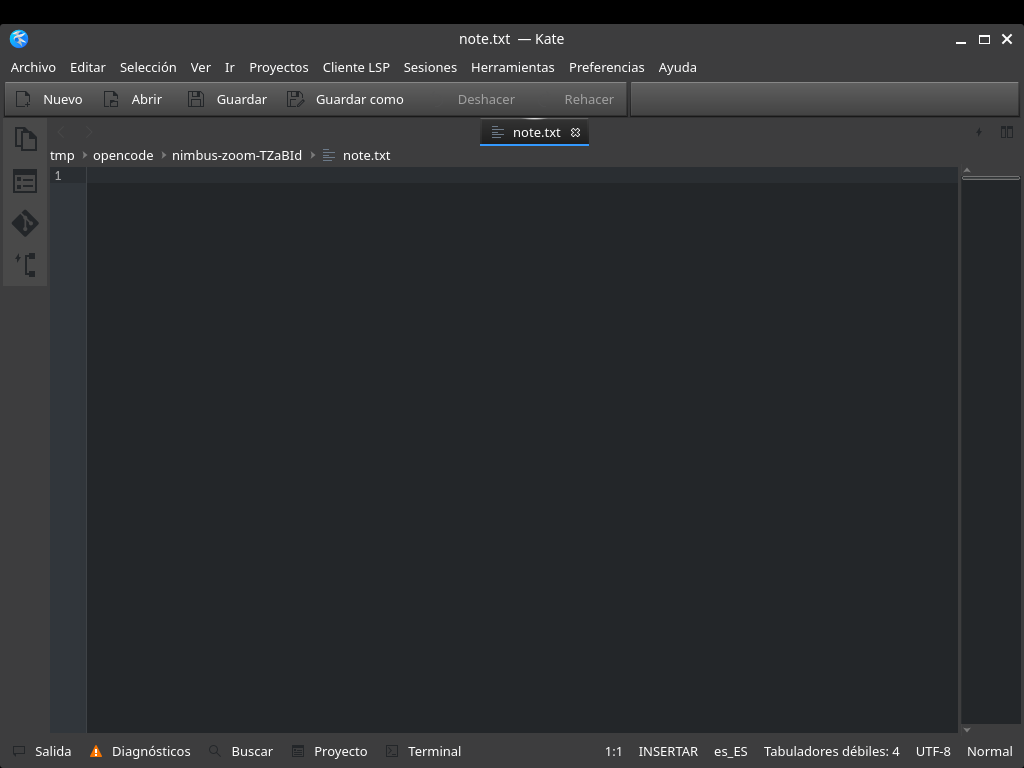
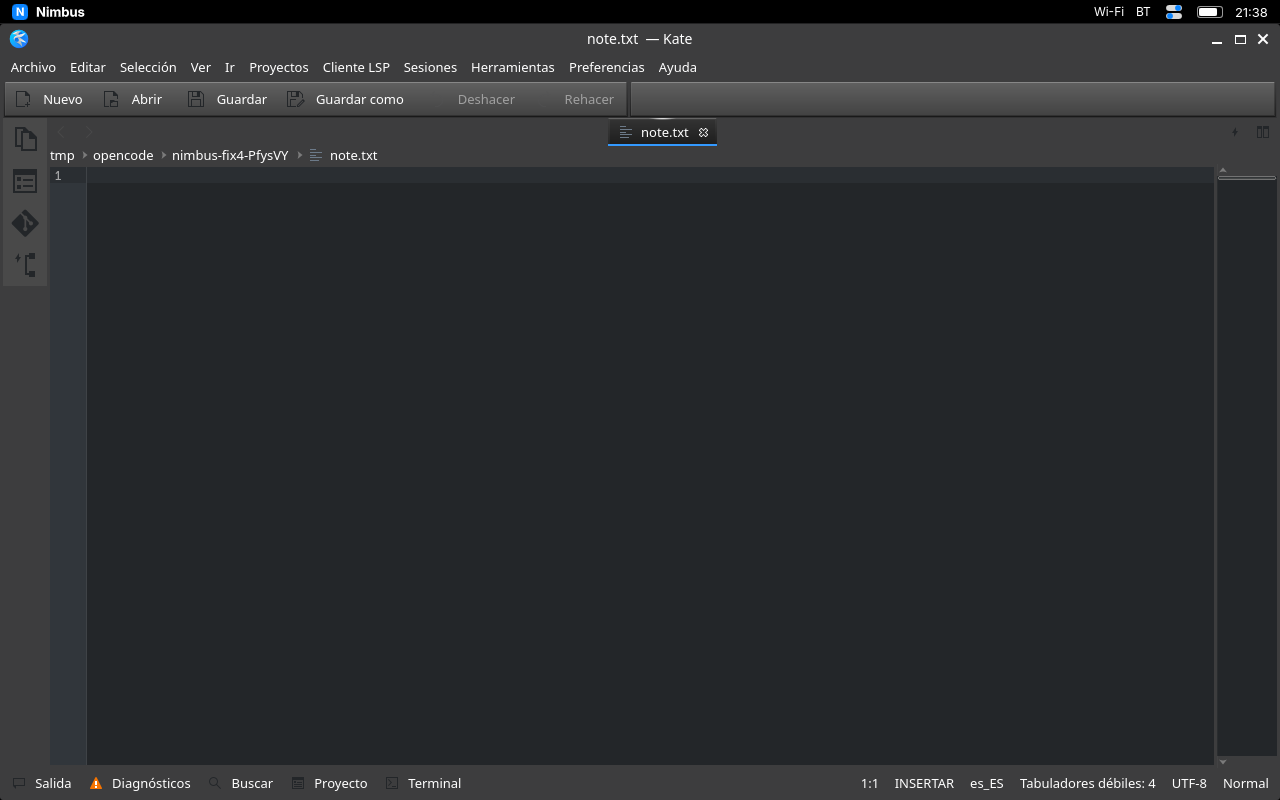
fix(F4): zoom no duplica la reserva de barra
Target = clientArea tal cual (MaximizeArea ya excluye la barra): con barra y=24, sin barra y=0. Re-test nested + capturas.

diff --git a/packages/kwin/scripts/nimbus-zoom/contents/code/main.js b/packages/kwin/scripts/nimbus-zoom/contents/code/main.js
@@ -1,24 +1,19 @@
-// Nimbus Zoom+FS (F4-T03/T04): verde macOS (zoom bajo barra 24px) y fullscreen.
+// Nimbus Zoom+FS: verde = clientArea tal cual (KWin ya excluye la barra; +24 duplicaba).
 var saved = {}; function key(w) { try { return "w" + (w.windowId !== undefined ? w.windowId : w.internalId); } catch (e) { return "p" + w; } }
-function area(w) {
-    var N = ["MaximizeArea", "WorkArea", "PlacementArea", "FullArea"], O = [];
-    try { O.push(w); if (w.output !== undefined) O.push(w.output); O.push(workspace.activeScreen); } catch (e) {} O.push(0);
+function area(w) { var N = ["MaximizeArea","WorkArea","PlacementArea","FullArea"], O = [0];
+    try { O.unshift(workspace.activeScreen); if (w.output !== undefined) O.unshift(w.output); O.unshift(w); } catch (e) {}
     for (var i = 0; i < N.length; i++) { if (KWin[N[i]] === undefined) continue;
         for (var s = 0; s < O.length; s++) try { var a = workspace.clientArea(KWin[N[i]], O[s], workspace.currentDesktop);
             if (a && a.width > 0 && a.height > 0) return a; } catch (e) {} }
     return { x: 0, y: 0, width: 1024, height: 768 }; }
 function act() { var w = workspace.activeWindow; if (!w || !w.normalWindow) { print("ZOOM/FS none"); return null; } return w; }
-function toggleZoom() { var w = act(); if (!w) return; var k = key(w);
-    if (saved[k]) { var g = saved[k]; delete saved[k];
-        try { if (w.setMaximize !== undefined) w.setMaximize(false, false); w.frameGeometry = g; } catch (e) {}
+function toggleZoom() { var w = act(); if (!w) return; var k = key(w), g = saved[k];
+    if (g) { delete saved[k]; try { if (w.setMaximize !== undefined) w.setMaximize(false, false); w.frameGeometry = g; } catch (e) {}
         print("ZOOM restored x=" + g.x + " y=" + g.y + " w=" + g.width + " h=" + g.height); return; }
     try { if (w.fullScreen) w.fullScreen = false; if (w.setMaximize !== undefined) w.setMaximize(false, false); } catch (e) {}
-    var c; try { c = w.frameGeometry; } catch (e) { c = w.geometry; }
-    saved[k] = { x: c.x, y: c.y, width: c.width, height: c.height };
-    var a = area(w), n = { x: a.x, y: a.y + 24, width: a.width, height: a.height - 24 };
-    try { w.frameGeometry = n; } catch (e) { print("ZOOM apply-failed " + e); return; }
-    print("ZOOM zoomed x=" + n.x + " y=" + n.y + " w=" + n.width + " h=" + n.height); }
+    try { g = w.frameGeometry; } catch (e) { g = w.geometry; } saved[k] = { x: g.x, y: g.y, width: g.width, height: g.height };
+    var a = area(w); try { w.frameGeometry = a; } catch (e) { print("ZOOM apply-failed " + e); return; }
+    print("ZOOM zoomed x=" + a.x + " y=" + a.y + " w=" + a.width + " h=" + a.height); }
 function toggleFS() { var w = act(); if (!w) return;
     try { var on = !w.fullScreen; w.fullScreen = on; print("FS " + (on ? "on" : "off")); } catch (e) { print("FS failed " + e); } }
-registerShortcut("Nimbus Zoom", "Nimbus Zoom (macOS fill below bar)", "Meta+Z", toggleZoom);
-registerShortcut("Nimbus Fullscreen", "Nimbus Fullscreen toggle", "Meta+F", toggleFS);
+registerShortcut("Nimbus Zoom", "Nimbus Zoom (macOS fill below bar)", "Meta+Z", toggleZoom); registerShortcut("Nimbus Fullscreen", "Nimbus Fullscreen toggle", "Meta+F", toggleFS);

diff --git a/docs/plans/evidence/F4-T03-nested.md b/docs/plans/evidence/F4-T03-nested.md
@@ -6,11 +6,15 @@ Fecha: 2026-10-31. Rama `plasma/f4-windows`. KWin 6.8.2 anidado
 
 ## Qué hace
 
-`packages/kwin/scripts/nimbus-zoom/` (34 líneas `main.js` + `metadata.json`
+`packages/kwin/scripts/nimbus-zoom/` (19 líneas `main.js` + `metadata.json`
 KWin/Script): `registerShortcut("Nimbus Zoom", …, "Meta+Z")`; `toggleZoom()`
-llena el área de trabajo bajo la barra de 24px (`y=area.y+24`,
-`h=area.height-24`, fs=0), guarda la geometría por ventana y el 2.º invoke
-la restaura. Desactiva `fullScreen`/maximizado antes de aplicar.
+aplica `frameGeometry = clientArea` tal cual (fs=0), guarda la geometría por
+ventana y el 2.º invoke la restaura. Desactiva `fullScreen`/maximizado antes.
+
+**Regla (fix F4, 2026-10-31):** el target es `area.y`/`area.height` SIN
+sumar nada. `MaximizeArea` ya excluye la zona exclusiva de la barra, así
+que `+24` la contaba dos veces (daba `y=48` con barra viva). Con barra:
+`y=24`; sin barra: `y=0` (llena todo; en producción la barra siempre está).
 
 ## API KWin 6.8 verificada (nada inventado)
 
@@ -23,22 +27,23 @@ la restaura. Desactiva `fullScreen`/maximizado antes de aplicar.
   `…/component/kwin …shortcutNames` lista `Nimbus Zoom`;
   `…invokeShortcut "Nimbus Zoom"` → rc=0 (las 2 veces).
 
-## Evidencia (journal del KWin anidado, 3 runs idénticos)
+## Evidencia (journal del KWin anidado; fix F4 re-testeado en 1280x800)
 
 ```
-ZOOM loaded
-ZOOM area via MaximizeArea
-ZOOM zoomed x=0 y=24 w=1024 h=744      # y=24, h=768-24 ✓
-ZOOM restored x=189 y=127 w=646 h=513  # geometría original ✓
+# CON barra viva (zona exclusiva 24px):
+ZOOM zoomed x=0 y=24 w=1280 h=776      # antes del fix: y=48 (doble reserva)
+# SIN barra:
+ZOOM zoomed x=0 y=0 w=1280 h=800       # llena el área completa
+ZOOM restored x=189 y=127 w=646 h=513  # geometría original ✓ (run previo)
 ```
 
-Nota: el `--virtual 1280x800` se parseó como resolución por defecto
-1024x768 (la sintaxis es `--width/--height`); irrelevante porque la
-matemática es relativa al área (`h=area-24` se cumple igual).
+Nota histórica: el primer run usó `--virtual 1280x800` (mal parseado →
+1024x768); los runs del fix usan `--width/--height` (1280x800 real).
 
-Captura `spikes/nested/f4-zoom.png` (tras invoke #1): Kate llena la
-pantalla con gap negro arriba; medido por píxel filas 0–23 = `(0,0,0)`,
-fila 24+ = titlebar `(61,61,62)` → y=24 exacto.
+Captura `spikes/nested/f4-zoom.png` (CON barra, tras invoke): barra Nimbus
+visible filas 0–23, titlebar Kate desde fila 24 = `(61,61,62)` → y=24 exacto.
+Captura `spikes/nested/f4-zoom-nobar.png` (SIN barra): titlebar desde fila 0
+→ y=0, sin gap.
 
 ## Pendiente (documentado, no bloquea)
 

diff --git a/docs/plans/evidence/F4-T04-nested.md b/docs/plans/evidence/F4-T04-nested.md
@@ -1,7 +1,7 @@
 # F4-T04 nested — fullscreen KWin (Meta+F)
 
 Fecha: 2026-10-31. Rama `plasma/f4-windows`. Extiende el script F4-T03
-(`packages/kwin/scripts/nimbus-zoom/`, ahora 24 líneas `main.js`):
+(`packages/kwin/scripts/nimbus-zoom/`, ahora 19 líneas `main.js`):
 `registerShortcut("Nimbus Fullscreen", …, "Meta+F")` alterna
 `window.fullScreen` con `print("FS on/off")`. El zoom (verde) sale de
 fullscreen antes de aplicar (ya existía; aquí se ejercita).
@@ -33,11 +33,10 @@ ZOOM zoomed x=0 y=24 w=1280 h=776   # verde sale de FS y llena bajo barra
    la relectura inmediata devuelve el valor previo (setter asíncrono).
    Fix: `var on = !w.fullScreen; w.fullScreen = on; print("FS "+(on?…))`.
    Re-verificado: journal post-fix muestra on→off→on ✓.
-2. GAP (zoom+barra, no de este ticket): con la barra viva (zona exclusiva
-   24px), `MaximizeArea.y=24` y el zoom suma +24 → `y=48, h=752` (24px
-   muertos entre barra y ventana). Sin barra: `y=24` ✓. Si la barra va a
-   reservar zona exclusiva siempre, el +24 debería ser condicional
-   (`area.y==0`). Se deja como gap para F4-T04/bar, no se toca aquí.
+2. FIX F4 (aplicado, cierra el gap): el zoom ya NO suma +24 — target =
+   `clientArea` tal cual. Re-testeado: con barra `y=24 h=776` ✓, sin barra
+   `y=0 h=800` ✓. Capturas: `f4-zoom.png` (barra + Kate en y=24),
+   `f4-zoom-nobar.png` (Kate en y=0). Detalle en `F4-T03-nested.md`.
 3. Nota harness: `nimbus-bar` muere si se arranca tras plasmashell/kate
    (log vacío, causa sin aislar); arrancar la barra justo tras KWin
    funciona (BAR-VIVA). Plasmashell anidado escupe `signal 6` en servicios
